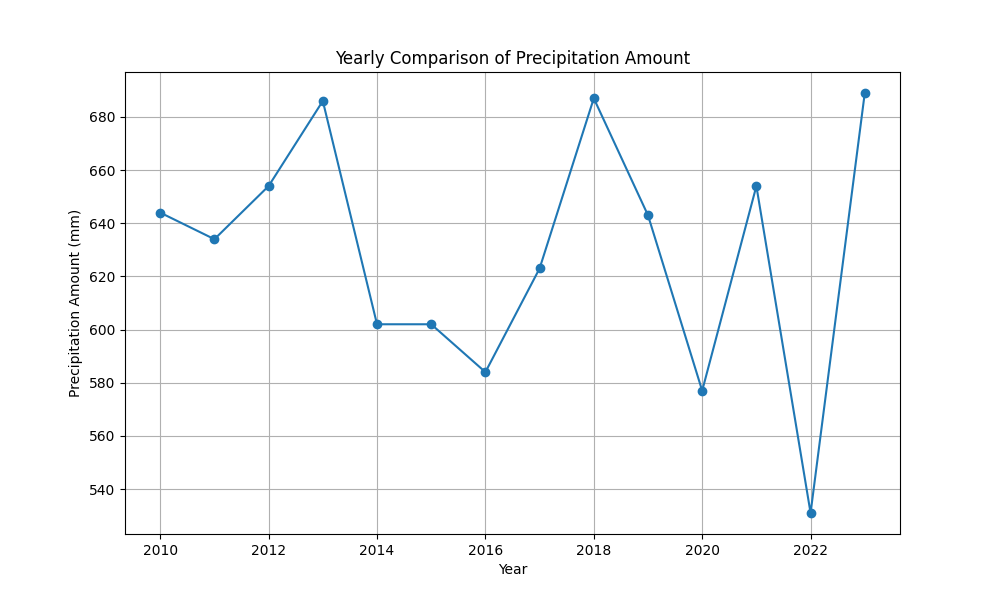
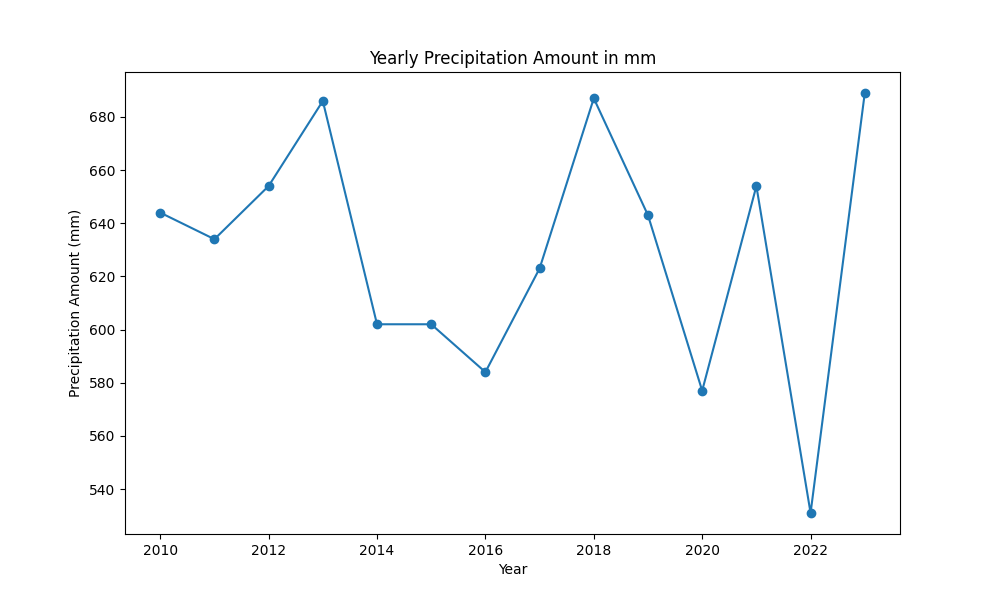
modul version

Changed region(s): [[0.341, 0.09, 0.682, 0.12]]

diff --git a/llm/code_generator/viz_gen.py b/llm/code_generator/viz_gen.py
@@ -1,15 +1,15 @@
 import os
+import re
 from groq import Groq
 import pandas as pd
 from dotenv import load_dotenv
 from .translate import Translator
 from .code_corrector import ReviewerAgent  # Assuming ReviewerAgent is implemented in reviewer.py
-import re
 
 
 class VisualizationGenerator:
     """
-    A class to generate, review, and iteratively refine visualization code based on user input and feedback.
+    A class to generate, review, and execute visualization code based on user input and feedback.
     """
 
     def __init__(self):
@@ -21,6 +21,8 @@ class VisualizationGenerator:
         self.model_name = os.getenv("GROQ_MODEL_NAME", "llama-3.1-70b-versatile")
         self.translator = Translator()
         self.reviewer = ReviewerAgent(client=self.client)
+        self.working_code = None  # Store the current working code
+        self.df = None  # Store the DataFrame
 
     def _get_chatbot_response(self, messages, temperature=0.2):
         """Private method to get response from Groq"""
@@ -32,15 +34,24 @@ class VisualizationGenerator:
         )
         return response.choices[0].message.content
 
-    def generate_visualization_code(self, data_columns, sample_row, csv_filename, user_requirements, data_description=None):
-        """Generate visualization code based on user input and data analysis"""
+    def generate_visualization_code(self, csv_path, user_requirements, data_description=None):
+        """
+        Generate visualization code based on user input and data analysis.
+        Returns the generated code as a string.
+        """
+        # Read the CSV file if not already loaded
+        if self.df is None:
+            self.df = pd.read_csv(csv_path)
+
+        data_columns = self.df.columns.tolist()
+        sample_row = self.df.iloc[0].tolist()
         column_types = [f"{col}: {type(val).__name__}" for col, val in zip(data_columns, sample_row)]
         user_requirements_english = self.translator.translate_est_to_eng(user_requirements)
 
         prompt = f"""Given the following dataset information:
 Columns and data types: {column_types}
 Sample row of data: {dict(zip(data_columns, sample_row))}
-CSV filename: {csv_filename}
+CSV filename: '{csv_path}'
 {f'Additional context about the data: {data_description}' if data_description else ''}
 User requirements: {user_requirements_english}
 
@@ -48,13 +59,14 @@ Generate Python code that creates a clear and professional visualization using m
 1. Import only pandas, matplotlib.pyplot, and numpy
 2. Include detailed comments explaining each step
 3. Use the user's requirements to determine the appropriate chart type and data to visualize
-4. Save the visualization as 'output_visualization.png'
-5. End with plt.show()
+4. Save the visualization as 'output_visualization.png' in the 'static' folder
+5. Do not call plt.show(); instead, just save the figure
 
 Provide only the Python code with comments."""
-        
+
         messages = [{'role': 'user', 'content': prompt}]
         code = self._get_chatbot_response(messages, temperature=0.2)
+        self.working_code = code  # Store the code for potential future use
         return code
 
     def clean_generated_code(self, code):
@@ -63,78 +75,55 @@ Provide only the Python code with comments."""
         cleaned_code = re.sub(r"['\"`]{3}\s*$", "", cleaned_code)  # Remove closing triple quotes
         return cleaned_code.strip()
 
-    def save_and_execute_code(self, code, file_path):
-        """Save the cleaned Python code to a file and execute it."""
+    def save_and_execute_code(self, code, output_image_path):
+        """
+        Save the cleaned Python code to a file and execute it.
+        The visualization image will be saved to 'output_image_path'.
+        """
         try:
             # Clean the code
             cleaned_code = self.clean_generated_code(code)
 
-            # Save the cleaned code to a file
-            with open(file_path, "w") as f:
-                f.write(cleaned_code)
-            print(f"Code saved to {file_path}")
+            # Ensure the output directory exists
+            os.makedirs(os.path.dirname(output_image_path), exist_ok=True)
 
-            # Execute the cleaned code
-            exec_globals = {}
+            # Save the cleaned code to a temporary file
+            temp_code_file = "temp_visualization_code.py"
+            with open(temp_code_file, "w") as f:
+                f.write(cleaned_code)
+
+            # Execute the cleaned code with proper context
+            exec_globals = {'__name__': '__main__'}
             exec(cleaned_code, exec_globals)
-            print("Visualization successfully generated and saved as PNG!")
+            print(f"Visualization successfully generated and saved at '{output_image_path}'!")
+
+            # Remove the temporary code file
+            os.remove(temp_code_file)
+
         except Exception as e:
             raise Exception(f"Error executing the visualization code: {e}")
 
-    def generate_visualization_from_csv(self, csv_path, data_description=None):
+    def regenerate_visualization_code(self, csv_path, user_requirements, data_description=None):
         """
-        Generate, review, and execute visualization code by interacting with the user.
-        Allow iterative updates based on user feedback.
+        Regenerate the visualization code based on new user requirements.
+        Overwrites the previous code and image.
+        """
+        # Generate new code with updated requirements
+        new_code = self.generate_visualization_code(
+            csv_path=csv_path,
+            user_requirements=user_requirements,
+            data_description=data_description
+        )
+        return new_code
+
+    def review_and_correct_code(self, code, csv_path):
+        """
+        Review and correct the generated code using ReviewerAgent.
+        Returns the corrected code as a string.
         """
         try:
-            # Read the CSV file
-            df = pd.read_csv(csv_path)
-            print("Siin on teie andmete esimesed read:")
-            print(df.head())
-            print("\nVeergude nimed ja andmetüübid:")
-            print(df.dtypes)
-
-            user_requirements = input("\nPalun kirjeldage, millist visualiseerimist soovite luua: ")
-            working_code = None  # Store the working code for iterative updates
-
-            while True:
-                # Generate the initial or updated visualization code
-                if working_code:
-                    print("\nUsing the previous working code as a base for updates...")
-                generated_code = self.generate_visualization_code(
-                    data_columns=df.columns.tolist(),
-                    sample_row=df.iloc[0].tolist(),
-                    csv_filename=csv_path,
-                    user_requirements=user_requirements,
-                    data_description=data_description
-                )
-
-                print("\nLoodud visualiseerimiskood:\n")
-                print(generated_code)
-
-                # Validate and correct code if execution fails
-                try:
-                    print("\nKontrollime loodud koodi...")
-                    reviewed_code = self.reviewer.review_and_correct_code(generated_code, csv_path)
-                    print("\nParandatud visualiseerimiskood:\n")
-                    print(reviewed_code)
-                    working_code = reviewed_code
-                except RuntimeError as review_error:
-                    print(f"Koodi läbivaatamisel ilmnes viga: {review_error}")
-                    return
-
-                # Save and execute the reviewed code
-                output_file = "generated_visualization.py"
-                self.save_and_execute_code(working_code, output_file)
-
-                # Ask the user if they are satisfied
-                satisfaction = input("\nKas olete loodud visualiseerimiskoodiga rahul? (jah/ei): ").strip().lower()
-                if satisfaction in ['jah', 'j']:
-                    print("Visualization finalized and saved successfully.")
-                    break
-                else:
-                    print("\nPalun täpsustage, mida soovite visualiseeringus muuta.")
-                    user_requirements = input("Uued nõuded: ")
-
-        except Exception as e:
-            raise Exception(f"CSV faili lugemisel tekkis viga: {str(e)}")
+            reviewed_code = self.reviewer.review_and_correct_code(code, csv_path)
+            self.working_code = reviewed_code  # Update the working code
+            return reviewed_code
+        except RuntimeError as review_error:
+            raise Exception(f"Error during code review: {review_error}")

diff --git a/llm/visualization_generation.py b/llm/visualization_generation.py
@@ -1,24 +1,115 @@
 from code_generator import VisualizationGenerator
 
-
-def main():
-    # Initialize the VisualizationGenerator (which includes the ReviewerAgent)
+def generate_initial_visualization(csv_path, data_description, user_requirements, output_image_path):
+    """
+    Generates the initial visualization based on the user's requirements.
+    """
+    # Initialize the VisualizationGenerator
     viz_gen = VisualizationGenerator()
-    
-    # Example with CSV file
-    csv_path = "../scrape-and-modify-data/output/sademed.csv"
-    description = "Vee andmestik"
     
     try:
         print("Generating initial visualization code...")
-        # Generate and process visualization code directly
-        viz_gen.generate_visualization_from_csv(
+        
+        # Generate the visualization code
+        generated_code = viz_gen.generate_visualization_code(
             csv_path=csv_path,
-            data_description=description
+            user_requirements=user_requirements,
+            data_description=data_description
         )
         
-        print("Visualization pipeline completed successfully!")
+        # Review and correct the code
+        corrected_code = viz_gen.review_and_correct_code(
+            code=generated_code,
+            csv_path=csv_path
+        )
         
+        # Save and execute the corrected code to generate the visualization image
+        viz_gen.save_and_execute_code(
+            code=corrected_code,
+            output_image_path=output_image_path
+        )
+        
+        print("Initial visualization generated successfully!")
+        print(f"Visualization image saved at: {output_image_path}")
+        
+    except Exception as e:
+        print(f"Error in generating initial visualization: {str(e)}")
+        raise  # Re-raise exception for further handling if needed
+
+def regenerate_visualization(csv_path, data_description, new_user_requirements, output_image_path):
+    """
+    Regenerates the visualization based on updated user requirements.
+    Overwrites the previous visualization image.
+    """
+    # Initialize the VisualizationGenerator
+    viz_gen = VisualizationGenerator()
+    
+    try:
+        print("Regenerating visualization code with new requirements...")
+        
+        # Regenerate the visualization code with updated requirements
+        new_generated_code = viz_gen.regenerate_visualization_code(
+            csv_path=csv_path,
+            user_requirements=new_user_requirements,
+            data_description=data_description
+        )
+        
+        # Review and correct the new code
+        new_corrected_code = viz_gen.review_and_correct_code(
+            code=new_generated_code,
+            csv_path=csv_path
+        )
+        
+        # Save and execute the new corrected code to generate the updated visualization image
+        viz_gen.save_and_execute_code(
+            code=new_corrected_code,
+            output_image_path=output_image_path
+        )
+        
+        print("Visualization regenerated successfully!")
+        print(f"Visualization image updated at: {output_image_path}")
+        
+    except Exception as e:
+        print(f"Error in regenerating visualization: {str(e)}")
+        raise  # Re-raise exception for further handling if needed
+
+def main():
+    # Example CSV file path and data description
+    csv_path = "../scrape-and-modify-data/output/sademed.csv"
+    data_description = "Vee andmestik"  # Optional data description in Estonian
+    
+    # Initial user requirements in Estonian
+    initial_user_requirements = "Soovin näha sademete hulka ajas graafikuna."
+    
+    # Output image path
+    output_image_path = "static/output_visualization.png"  # Ensure 'static' directory exists
+    
+    try:
+        # Generate initial visualization
+        generate_initial_visualization(
+            csv_path=csv_path,
+            data_description=data_description,
+            user_requirements=initial_user_requirements,
+            output_image_path=output_image_path
+        )
+        
+        # Simulate user satisfaction
+        user_satisfied = False  # Hardcoded as 'no' for testing purposes
+        
+        if not user_satisfied:
+            print("\nUser is not satisfied with the initial visualization.")
+            # New user requirements (e.g., change line color to red)
+            new_user_requirements = "Soovin, et graafiku joon oleks punast värvi."
+            print(f"Updating visualization with new requirements: {new_user_requirements}")
+            
+            # Regenerate visualization with new requirements
+            regenerate_visualization(
+                csv_path=csv_path,
+                data_description=data_description,
+                new_user_requirements=new_user_requirements,
+                output_image_path=output_image_path
+            )
+            
     except Exception as e:
         print(f"Error in visualization pipeline: {str(e)}")
 

diff --git a/llm/generated_visualization.py b/llm/generated_visualization.py
@@ -3,28 +3,24 @@ import pandas as pd
 import matplotlib.pyplot as plt
 import numpy as np
 
-# Load the dataset from the CSV file
+# Load the CSV file into a pandas DataFrame
 # The CSV file is located in the specified path and has a header row
-data = pd.read_csv('../scrape-and-modify-data/output/sademed.csv')
+df = pd.read_csv('../scrape-and-modify-data/output/sademed.csv')
 
-# The user requires a yearly comparison, so we will create a line chart
-# to visualize the 'sademete_hulk_mm' (amount of precipitation in mm) over the years
-# We will use the 'aasta' (year) column as the x-axis and 'sademete_hulk_mm' as the y-axis
+# The user requires a yearly comparison, so we'll create a line plot
+# to visualize the 'sademete_hulk_mm' (precipitation amount in mm) over the years
+plt.figure(figsize=(10, 6))  # Set the figure size for better readability
 
-# Create the line chart
-plt.figure(figsize=(10, 6))  # Set the figure size
-plt.plot(data['aasta'], data['sademete_hulk_mm'], marker='o')  # Create the line chart with markers
+# Create the line plot with 'aasta' (year) on the x-axis and 'sademete_hulk_mm' on the y-axis
+plt.plot(df['aasta'], df['sademete_hulk_mm'], marker='o')  # Add markers for each data point
 
-# Add title and labels
-plt.title('Yearly Comparison of Precipitation Amount')  # Set the title
+# Set the title and labels for the axes
+plt.title('Yearly Precipitation Amount in mm')  # Set the title based on the user's requirements
 plt.xlabel('Year')  # Set the x-axis label
 plt.ylabel('Precipitation Amount (mm)')  # Set the y-axis label
-
-# Add grid lines for better readability
-plt.grid(True)
 
 # Save the visualization as a PNG file
 plt.savefig('output_visualization.png')
 
-# Display the chart
+# Display the plot
 plt.show()
